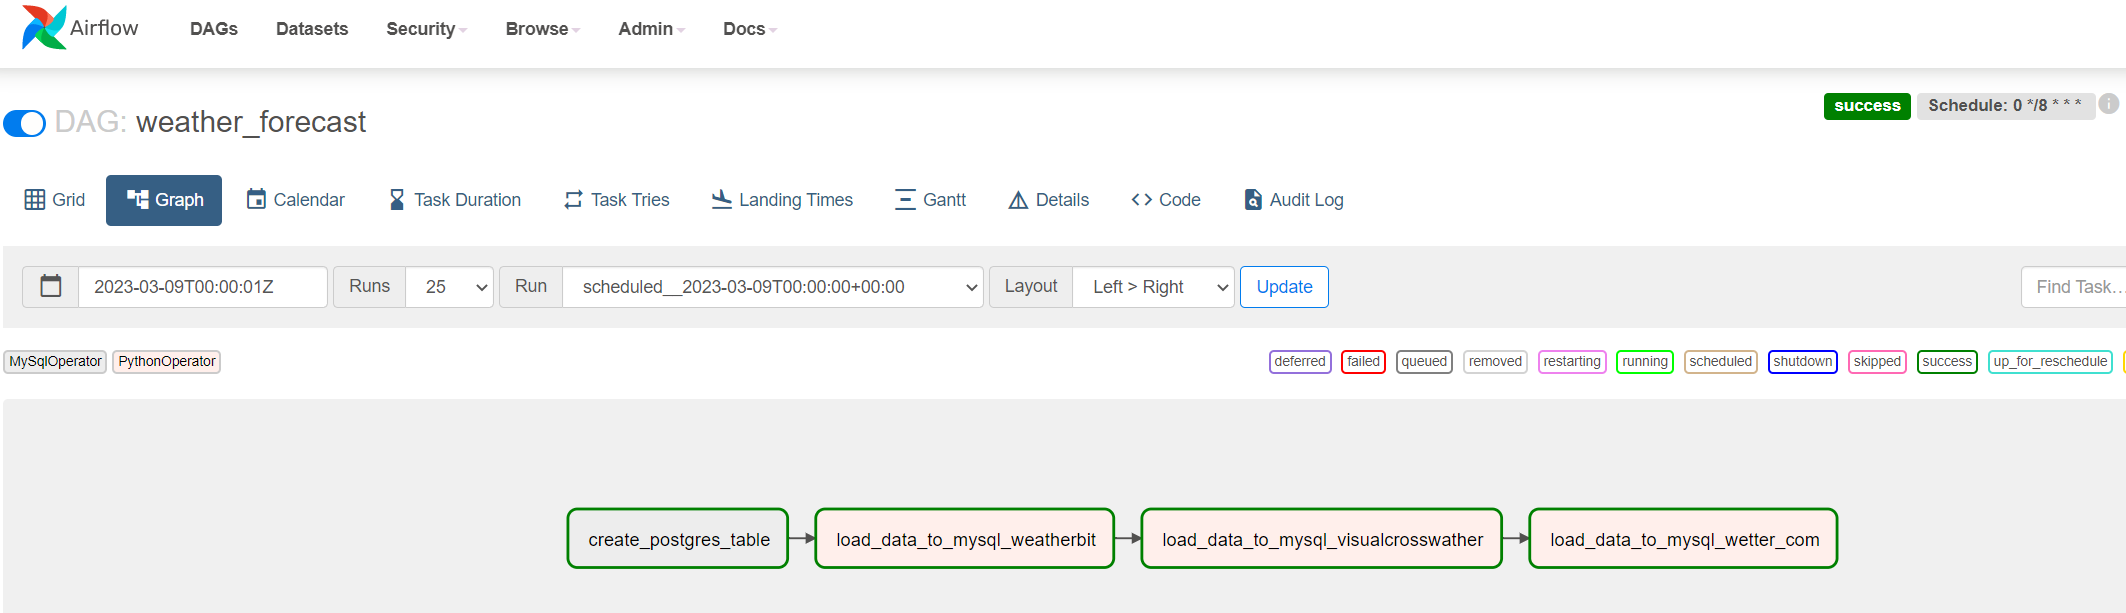
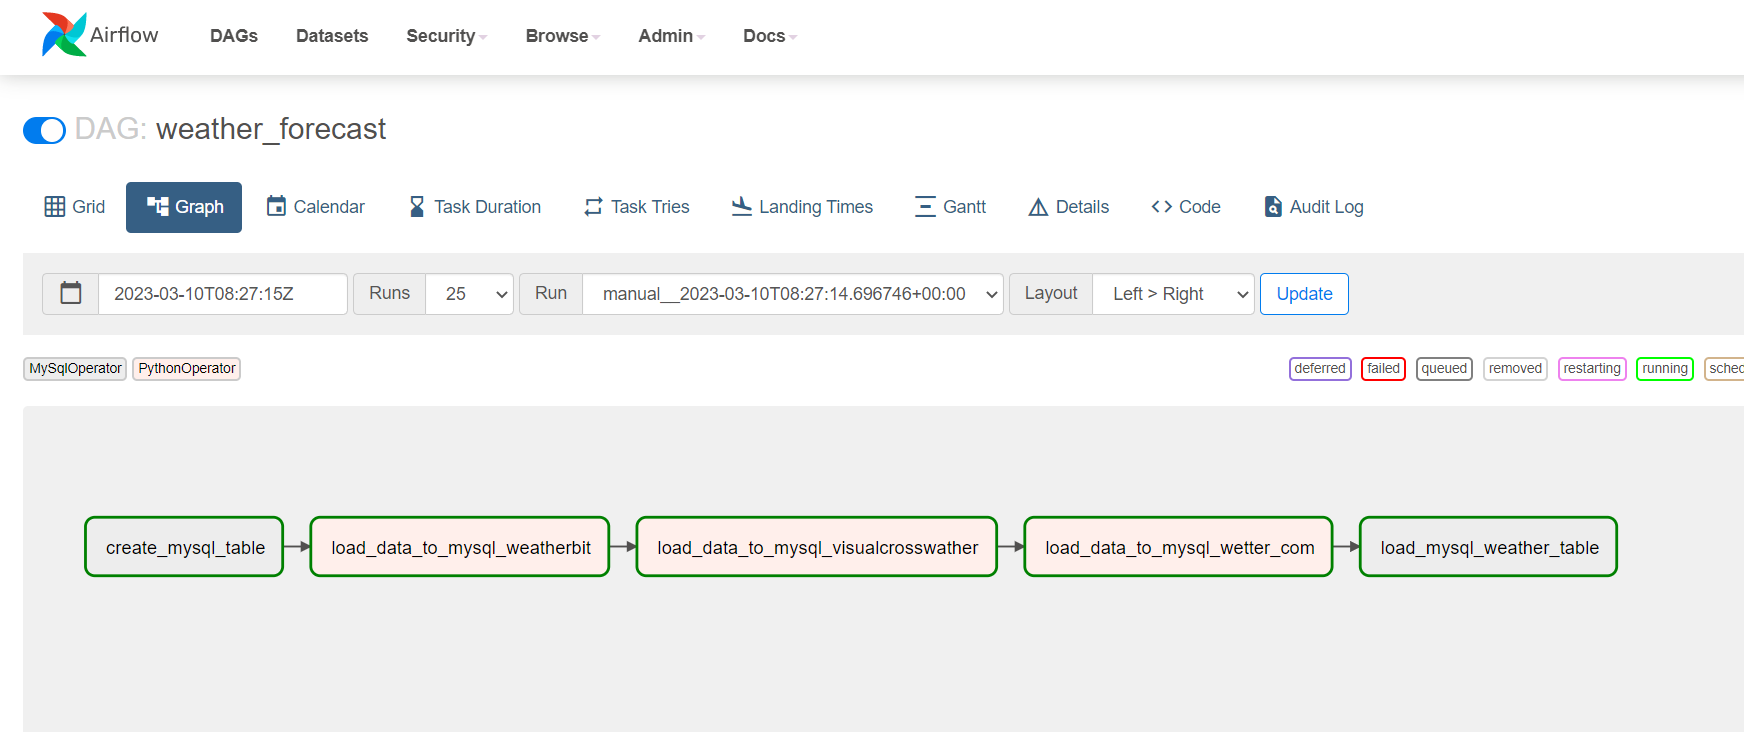
Add MySQL Weather Table

diff --git a/weather_dag.py b/weather_dag.py
@@ -22,17 +22,24 @@ dag = DAG(
 
 
 CreateTable = MySqlOperator(
-    task_id = 'create_postgres_table',
+    task_id = 'create_mysql_table',
     mysql_conn_id = 'Azure_MySQL_Weather',
     sql = '''
-        CREATE TABLE IF NOT EXISTS `weather_forecast` (
-        `Forecast_Date` date NOT NULL,
-        `AVG_Temperature` int(11) DEFAULT NULL,
-        `Source` varchar(25) COLLATE utf8_bin NOT NULL,
-        `Ingest_Timestamp` datetime NOT NULL,
-        `City` varchar(25) COLLATE utf8_bin NOT NULL,
-        PRIMARY KEY (`Forecast_Date`,`Source`,`Ingest_Timestamp`)
-        ) ENGINE=InnoDB DEFAULT CHARSET=utf8 COLLATE=utf8_bin;
+    CREATE TABLE IF NOT EXISTS `weather_forecast` (
+    `Forecast_Date` date NOT NULL,
+    `AVG_Temperature` int(11) DEFAULT NULL,
+    `Source` varchar(25) COLLATE utf8_bin NOT NULL,
+    `Ingest_Timestamp` datetime NOT NULL,
+    `City` varchar(25) COLLATE utf8_bin NOT NULL,
+    PRIMARY KEY (`Forecast_Date`,`Source`,`Ingest_Timestamp`)
+    ) ENGINE=InnoDB DEFAULT CHARSET=utf8 COLLATE=utf8_bin;
+
+    CREATE TABLE IF NOT EXISTS `weather_avg_temperature` (
+    `Forecast_Date` date NOT NULL,
+    `AVG_Temperature` decimal(14,4) NOT NULL,
+    `City` varchar(25) COLLATE utf8_bin NOT NULL,
+    PRIMARY KEY (`Forecast_Date`)
+    ) ENGINE=InnoDB DEFAULT CHARSET=utf8 COLLATE=utf8_bin;
     '''
 )
 
@@ -78,6 +85,18 @@ LoadVisualCrossing = PythonOperator(
     dag=dag,
 )
 
+LoadWeatherTable = MySqlOperator(
+    task_id = 'load_mysql_weather_table',
+    mysql_conn_id = 'Azure_MySQL_Weather',
+    sql = '''
+        INSERT INTO weather.weather_avg_temperature (Forecast_Date, AVG_Temperature, City)
+            select Forecast_Date , avg(AVG_Temperature) as AVG_Temperature, City 
+            from weather.weather_forecast wf 
+            where Forecast_Date = current_date()
+            group by Forecast_Date, City 
+        ON DUPLICATE KEY UPDATE AVG_Temperature = VALUES(AVG_Temperature);
+    '''
+)
 
 # Run DAG
-CreateTable >> LoadDataWeatherbit  >> LoadVisualCrossing >> LoadDataWetter_com
+CreateTable >> LoadDataWeatherbit  >> LoadVisualCrossing >> LoadDataWetter_com >> LoadWeatherTable
